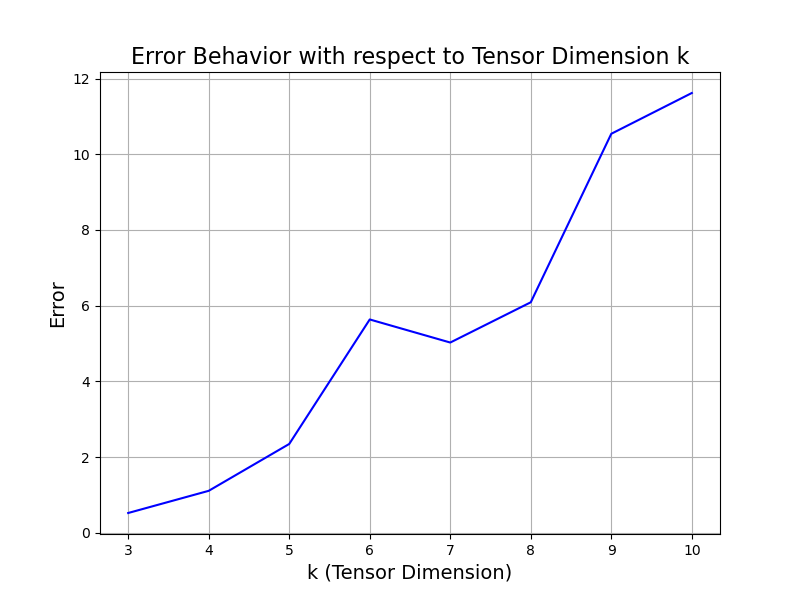
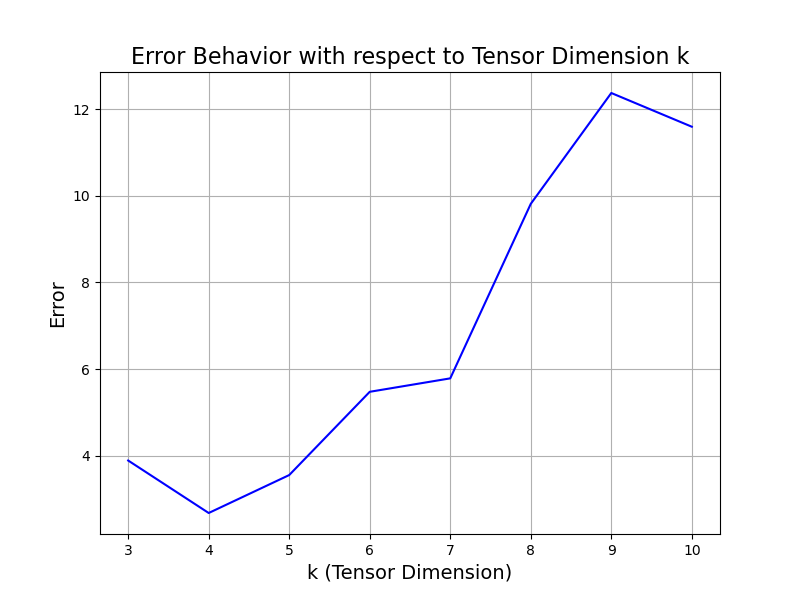
errvsk change

diff --git a/functions/.ipynb_checkpoints/error_functions-checkpoint.py b/functions/.ipynb_checkpoints/error_functions-checkpoint.py
@@ -20,7 +20,8 @@ def tens_vs_errmat(sup_norm_bound, L, M):
         inner_products (list): List of inner products for corresponding eigenvectors.
     """
     # Generate the symmetric tensor with the current sup_norm_bound
-    etens = generate_symmetric_tensor(k=3, sup_norm_bound=sup_norm_bound)
+    bound = sup_norm_bound/k
+    etens = generate_symmetric_tensor(k=3, sup_norm_bound=bound)
 
     # Generate the orthogonal tensor and the combined tensor
     otens, oeval, oevecs = generate_orthogonal_tensor(k=3)

diff --git a/functions/error_functions.py b/functions/error_functions.py
@@ -20,7 +20,8 @@ def tens_vs_errmat(sup_norm_bound, L, M):
         inner_products (list): List of inner products for corresponding eigenvectors.
     """
     # Generate the symmetric tensor with the current sup_norm_bound
-    etens = generate_symmetric_tensor(k=3, sup_norm_bound=sup_norm_bound)
+    bound = sup_norm_bound/k
+    etens = generate_symmetric_tensor(k=3, sup_norm_bound=bound)
 
     # Generate the orthogonal tensor and the combined tensor
     otens, oeval, oevecs = generate_orthogonal_tensor(k=3)
